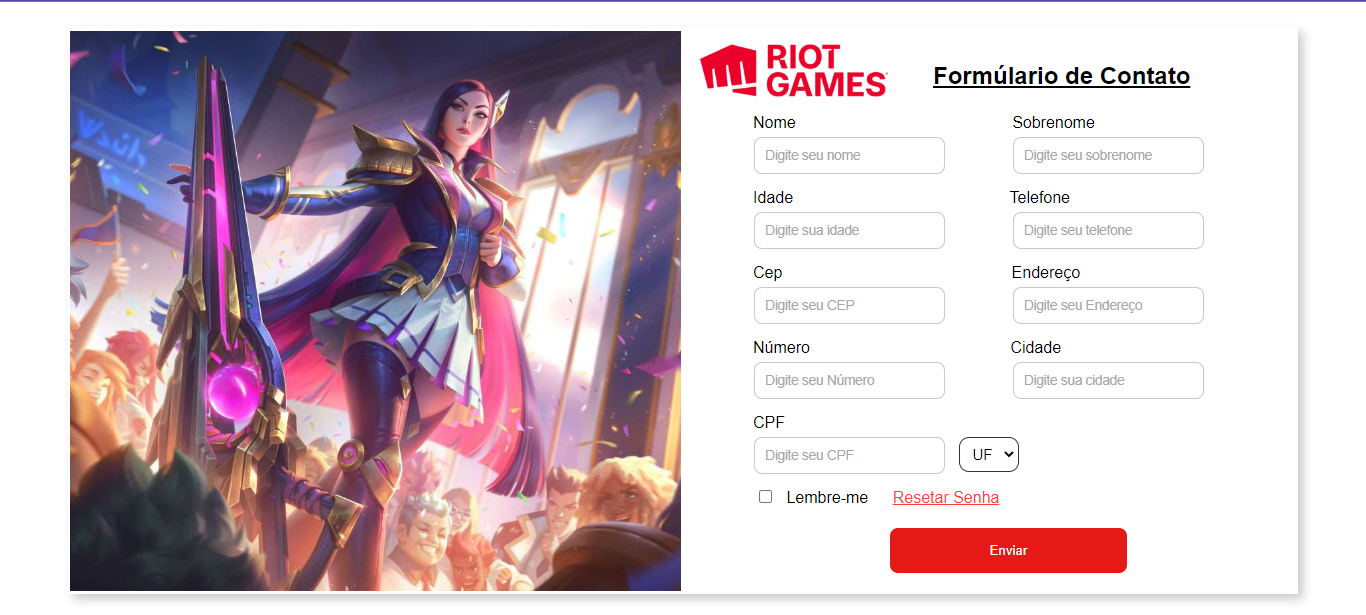
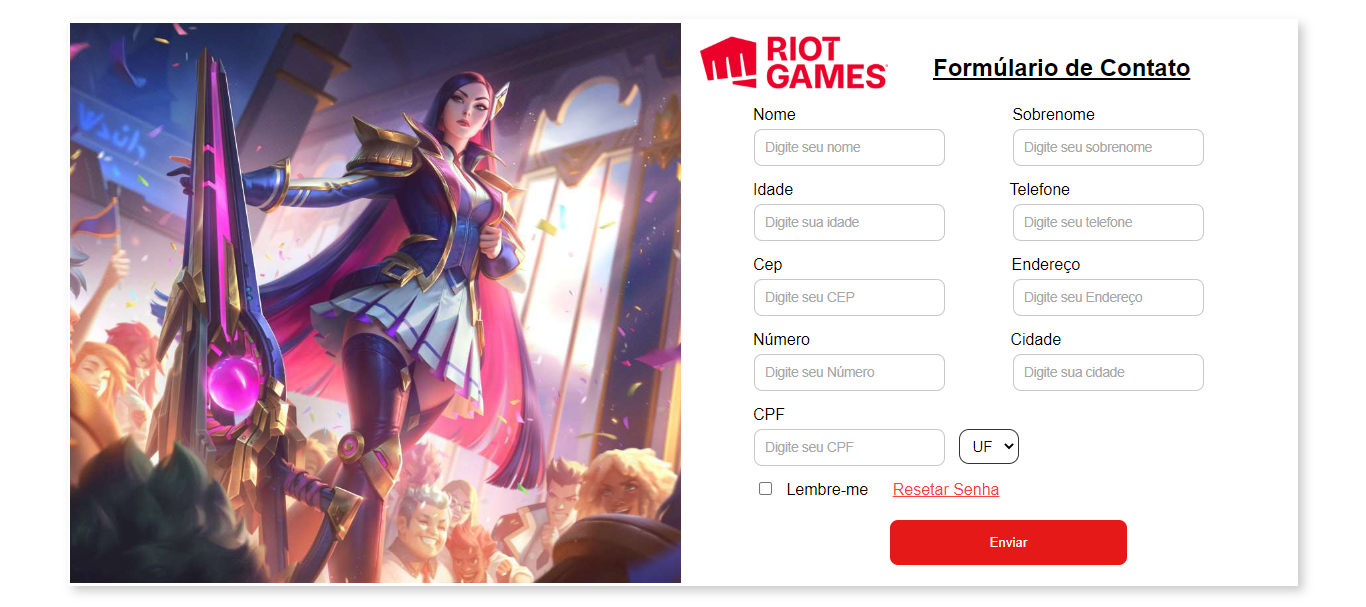
remoção do campo resetar senha

diff --git a/Desktop/formulario-lol/index.html b/Desktop/formulario-lol/index.html
@@ -52,14 +52,6 @@
                         <option value="3">MT</option>
                     </select>
                 </div>
-                <div class="options-container">
-                    <div class="checkbox-container">
-                        <input type="checkbox" name="remenber" id="remenber">
-                        <label for="remenber">Lembre-me</label>
-                        <a class="ajust-password" href="google.com">Resetar Senha</a>
-                    </div>
-                </div>
-                
                 <input class="ajust-enviar" type="submit" value="Enviar">
             </form>
         </div>

diff --git a/Desktop/formulario-lol/style.css b/Desktop/formulario-lol/style.css
@@ -113,7 +113,7 @@ input {
 .ajust-enviar {
     background: #e61919;
     margin: 15px;
-    padding: 15px 100px;
+    padding: 20px 100px;
     margin-left: 15.5em;
     border: none;
     color: white;
